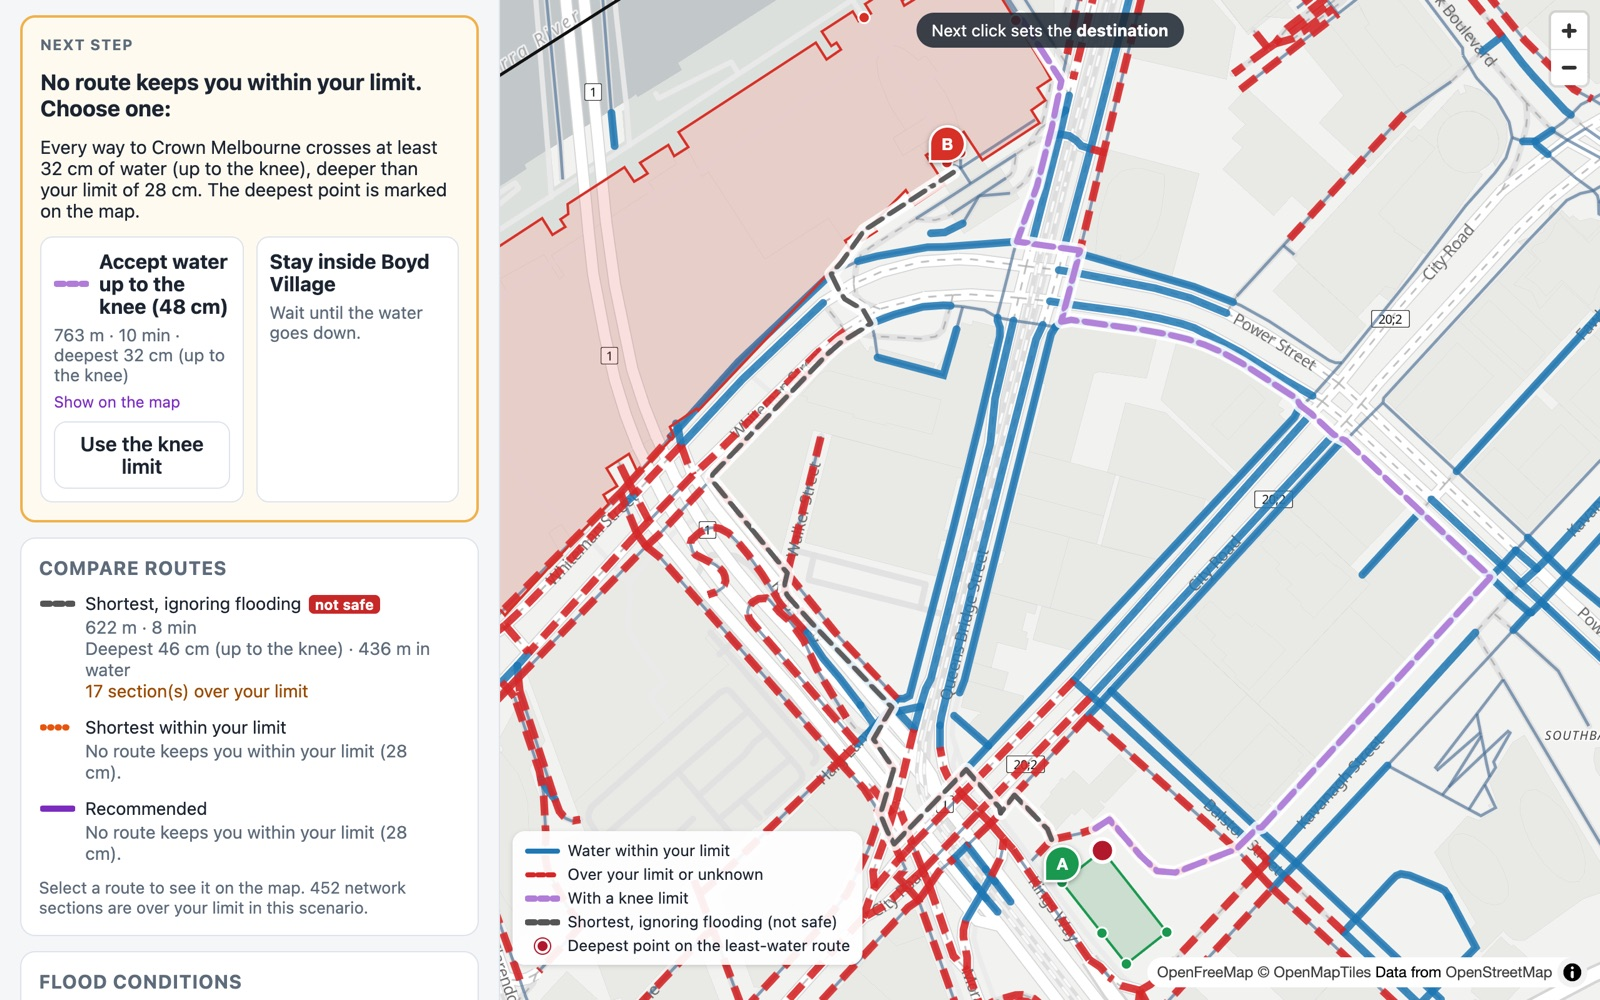
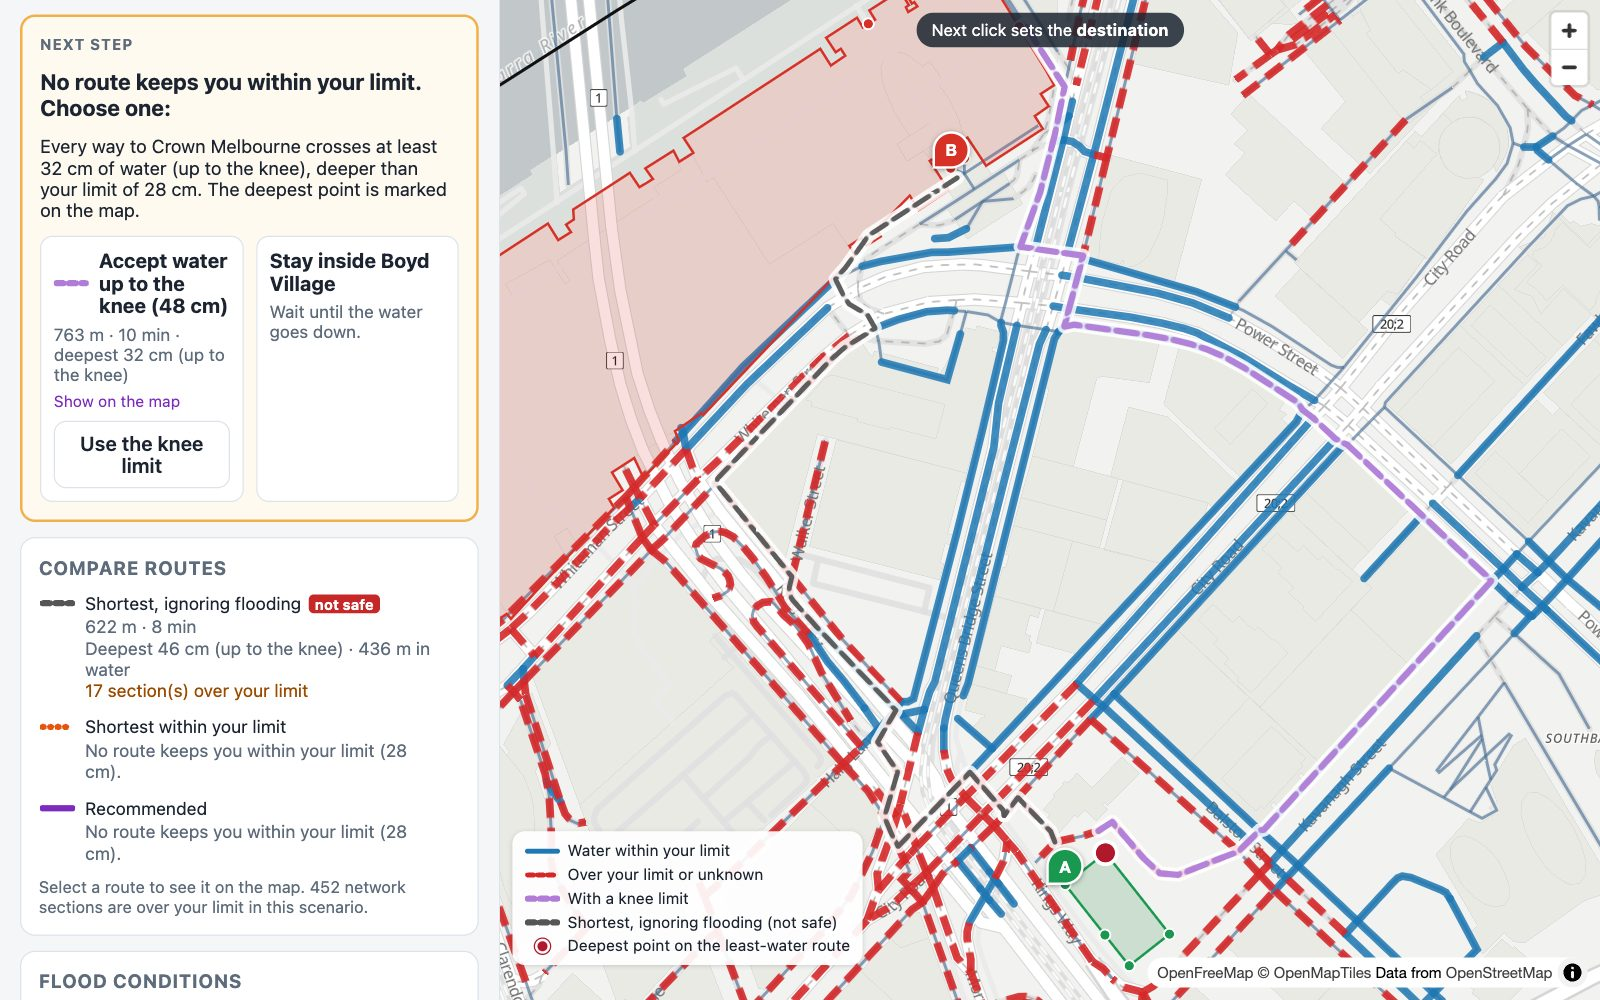
docs: add an animated walkthrough to the README and refresh the screenshots

diff --git a/README.md b/README.md
@@ -6,6 +6,15 @@ interchangeable sources (scenarios built from published flood levels and terrain
 sets the deepest water they accept as a body part, converted to a depth from their height; deeper
 water is never routed through, and shallower water costs more the closer it is to that limit.
 
+## Walkthrough
+
+![Planning walks from Boyd Village to Crown Melbourne as the flood level rises](docs/images/walkthrough.gif)
+
+From Boyd Village to Crown Melbourne with a mid-calf limit (28 cm): under light flooding the plain
+route is dry; under moderate flooding no route fits, so the app offers accepting water up to the
+knee or staying inside; taking the knee limit gives a route. Last, under heavy flooding, a start in
+67 cm of water brings up emergency help and the shallowest way to shelter.
+
 ## Screenshots
 
 Each trip opens with the next step to take, and the map highlights the route it refers to. Water

diff --git a/CONTRIBUTING.md b/CONTRIBUTING.md
@@ -52,6 +52,10 @@ and the interfaces new code should plug into.
    npm test                       # unit tests
    ```
 
+   If a change adds a feature or changes what the app shows, refresh the README images in the same
+   pull request: with the API (port 8010) and `npm run dev` running, `npm run capture` rewrites the
+   screenshots and the walkthrough in `docs/images/` (needs Google Chrome and ffmpeg).
+
    If you change path finding, also run `uv run python scripts/compare_pathfinders.py`; it must
    report no mismatches against the NetworkX reference.
 4. Open a pull request into `main` describing what changed, why, and how it was verified.
